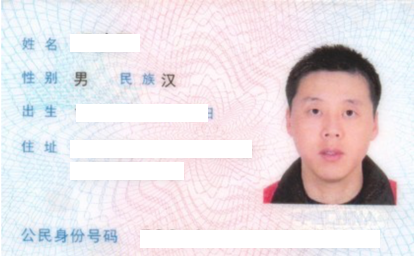
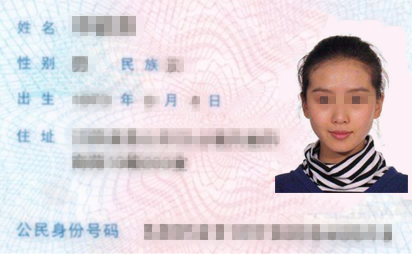
身份证图片替换

diff --git a/src/pages/verifieds/AddVerified.js b/src/pages/verifieds/AddVerified.js
@@ -216,7 +216,7 @@ export default class AddVerified extends Component {
             <Text style={styles.lbImage2}>{I18n.t('verified_example')}:</Text>
 
             <Image style={styles.img2}
-                   source={Images.verified_exmple}/>
+                   source={this.getCertType() ? Images.verifed_passport : Images.verified_exmple}/>
 
 
             <Text style={styles.lbImage3}>*{I18n.t('verified_desc')}</Text>
@@ -303,7 +303,7 @@ const styles = StyleSheet.create({
     showImg: {
         height: 128,
         width: 206,
-        resizeMode:'contain'
+        resizeMode: 'contain'
 
     },
     btnSelectImg: {
@@ -323,7 +323,8 @@ const styles = StyleSheet.create({
     img2: {
         height: 128,
         width: 206,
-        alignSelf: 'center'
+        alignSelf: 'center',
+        resizeMode:'cover'
     },
     lbImage3: {
         fontSize: 11,

diff --git a/src/Themes/Images.js b/src/Themes/Images.js
@@ -197,6 +197,7 @@ const images = {
     verified_select: require('../../source/verified/select.png'),
     verified_selected: require('../../source/verified/selected.png'),
     verified_exmple: require('../../source/verified/exmple.png'),
+    verifed_passport:require('../../source/verified/passport.png'),
 
     pukes: require('../../source/navigation/pukes.png'),
     raceBegin: require('../../source/navigation/raceBegin.png'),
